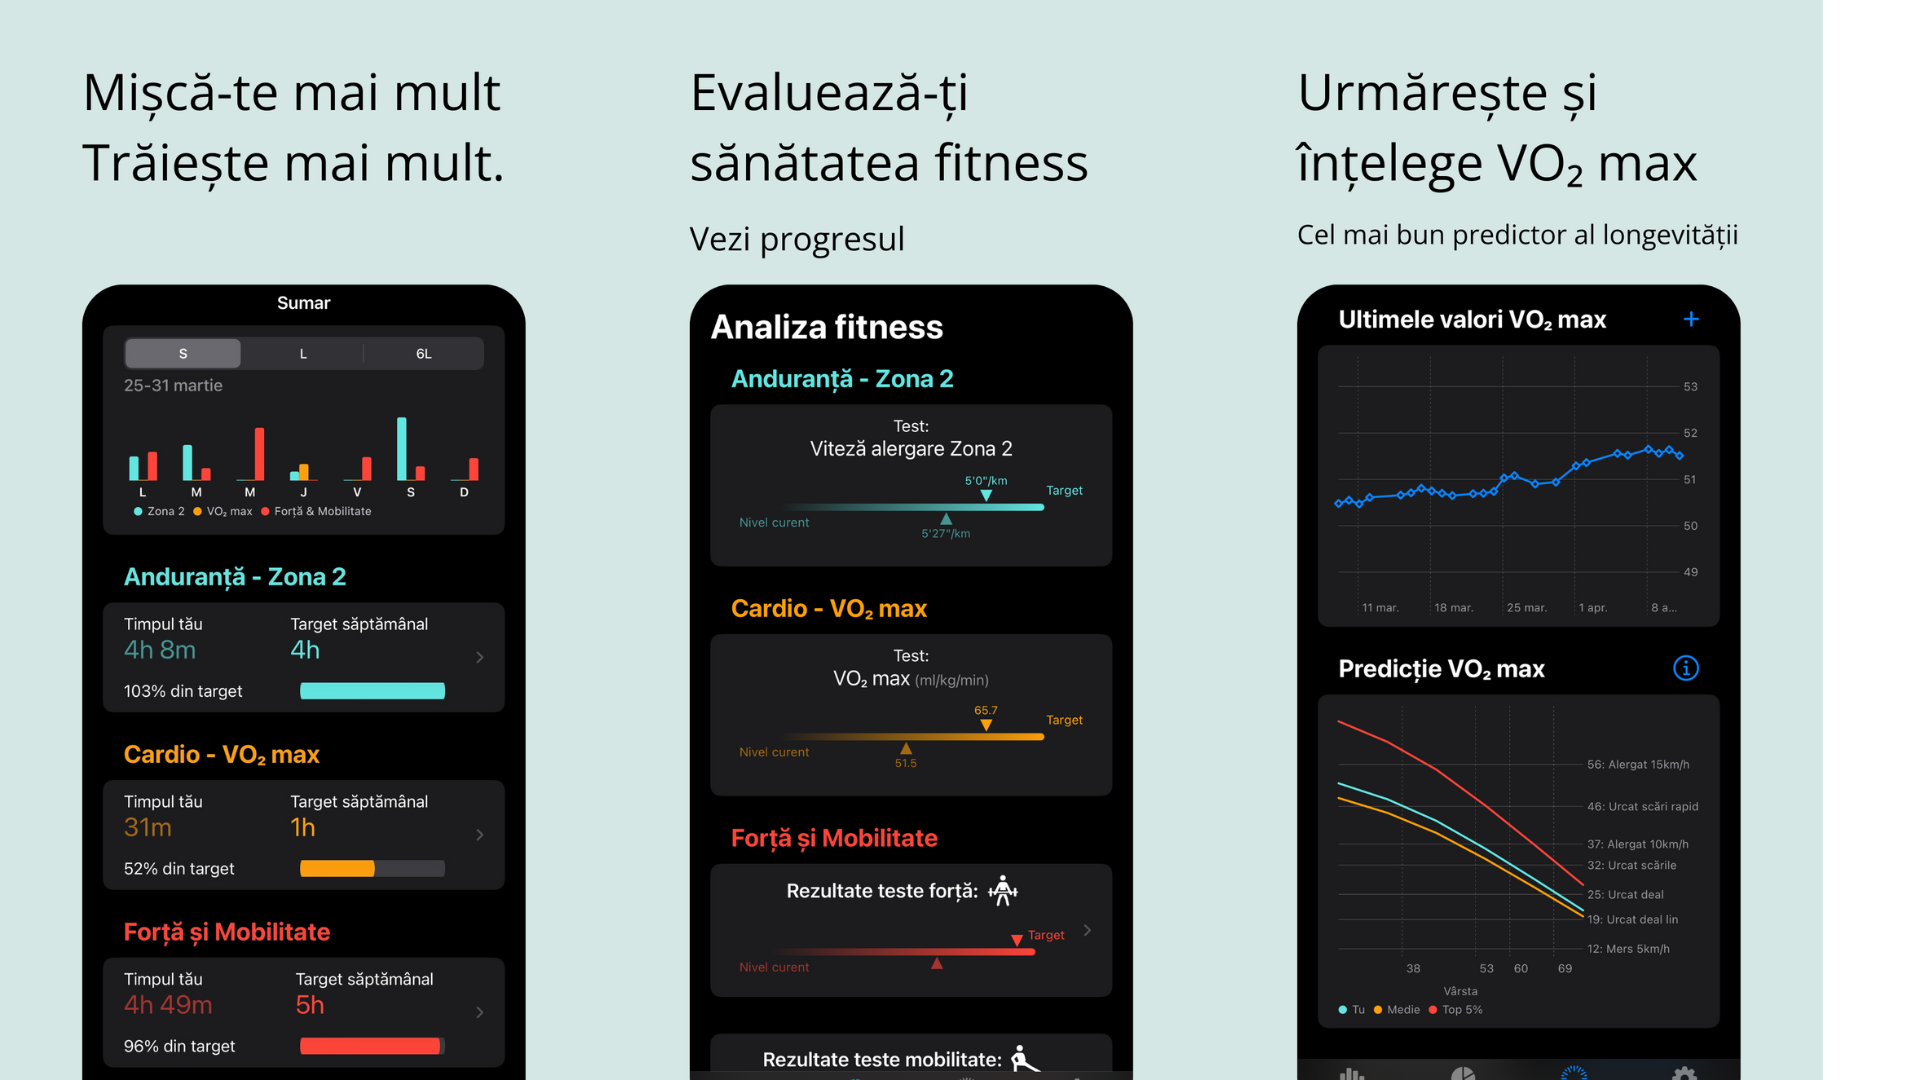
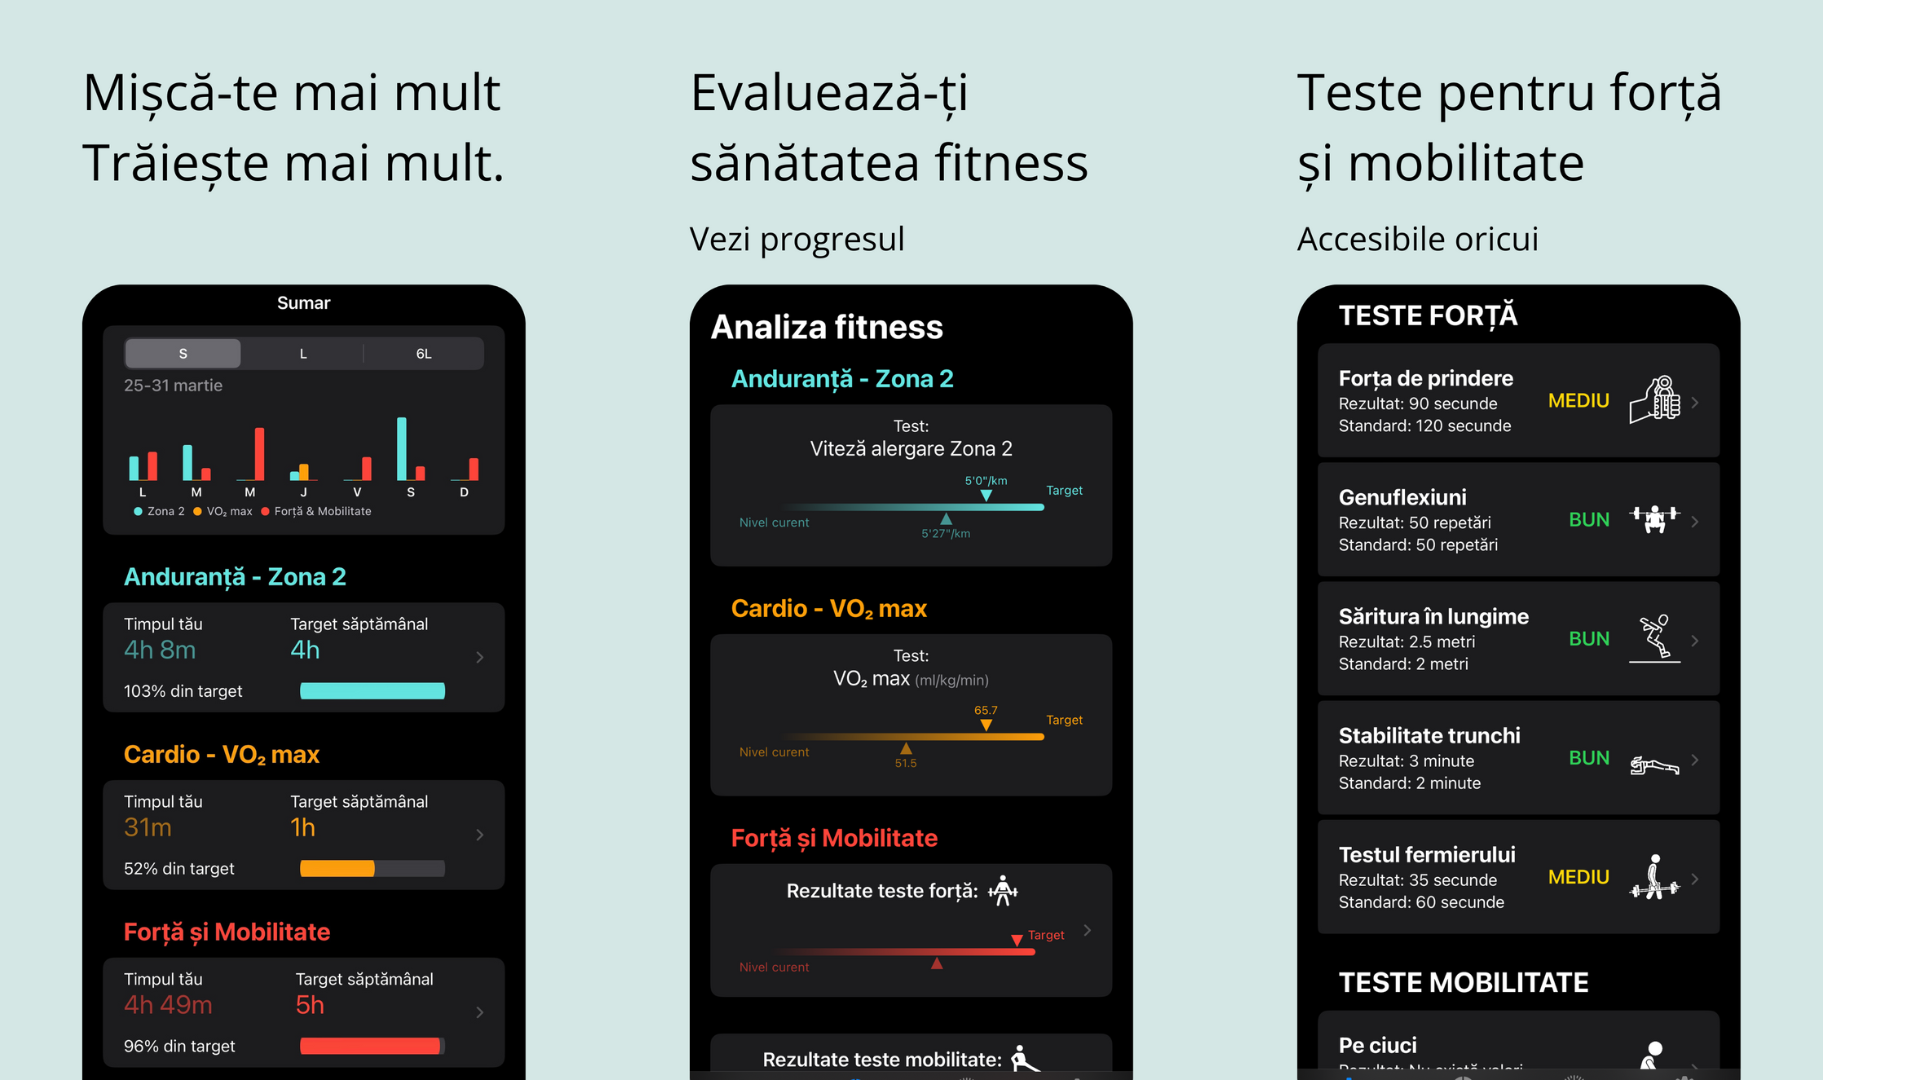
add appstore link

diff --git a/_posts/2010-01-01-movitalis-info.md b/_posts/2010-01-01-movitalis-info.md
@@ -26,36 +26,16 @@ Your browser does not support the video tag.
 
 Elimină puncte slabe. Movitalis îți analizează automat antrenamentele și le asociază o categorie de efort: Cardio, Anduranță sau Forță și Mobilitate. Devine ușor să identifici arii neglijate sau care îți ocupă prea mult timp.
 
-<img src="/assets/img/Forță_RO_1290x2796.png"  alt="drawing" height="500">
+În plus, vei beneficia de multe alte informații interesante, precum teste de forță și mobilitate, analiză a celor mai importanți parametrici fitness și predicții ale performanței tale.
 
-# În detaliu
+Ești gata să începi drumul către o viață mai sănătoasă? Descarcă acum de pe App Store!
 
-**Cardio** - Înțelege cum să dezvolți cel mai important predictor al longevității și bucură-te de monitorizare automată.
+<a href="https://apps.apple.com/ro/app/movitalis-fitness-tracking/id6470913447" target="_blank">
+    <img src="https://linkmaker.itunes.apple.com/assets/shared/badges/en-us/appstore-lrg.svg" alt="Download on the App Store">
+</a>
 
-**Forță și Mobilitate** - Vezi cât timp petreci antrenând mușchii și articulațiile tale și pune-le la probă cu teste funcționale.
-
-**Anduranță** - Învață cum să dezvolți anduranța cu antrenamente ușoare și descoperă legătura cu sănătatea metabolică. Bucură-te de monitorizare automată a antrenamentelor și a performanței.
-
-**Înțelege-ți parametrii** - Aplicația evidențiază cele mai importante măsurători ale sănătății tale fitness și te ajută să înțelegi căt de bine funcționează corpul tău.
-
-**Capătă structură** - Lasă în urmă zilele în care nu știi ce să faci mai întâi și bucură-te de o structură clară a antrenamentului ce ia în calcul atât Cardio cât și Forța, Mobilitatea și Anduranța
-
-**Categorizare automată** - aplicația îți identifică automat antrenamentele de Cardio, Anduranță și Forță/Mobilitate. Poți viziona toate antrenamentele din fiecare categorie.
-
-**Analiză esențială** - Fiecare antrenament e diferit. Înțelege performanța ta în ultimele antrenamente prin prisma scopului pe care îl atinge fiecare.
-
-**Simplitate** - Fitnessul nu trebuie să fie complicat. Aplicația se concentrează pe ce este important.
-
-**Context și predicție** - Înțelege cum te compari cu restul oamenilor din categoria ta de vârstă și vezi predicții pe zeci de ani ale abilităților tale fizice.
-
-**Testare funcțională** - Folosește testele de forță și mobilitate pentru a identifica puncte slabe, a decide cum să te antrenezi și a-ți evalua progresul.
-
-**Opțiune de logare manuală** - Dacă nu ai un dispozitiv fitness smart sau ai uitat să înregistrezi, poți loga manual antrenamente.
-
-**Integrare smart watch** - Folosește-ți dispozitivul la fel ca și până acum. Aplicația va citi automat antrenamentele din Apple Health. Nu necesită să înregistrezi cu aplicația, ci doar îți analizează datele deja existente.
-
-Deci descarcă acum Movitalis și bucură-te de structură, simplitate, energie și longevitate!
-
+<span style="font-size: 15px">
 Disclaimer:
 
 Nimic din aplicație nu constituie un sfat medical. Consultă-ți medicul înainte să faci orice decizii legate de sănătatea ta!
+</span>

diff --git a/_posts/2010-01-01-movitalis-privacy-policy.md b/_posts/2010-01-01-movitalis-privacy-policy.md
@@ -3,7 +3,7 @@ layout: post
 title: "Politica de confidențialitate"
 author: "David Manda"
 categories: article
-tags: [movitalis]
+tags: [movitalis-privacy]
 image: politica-de-confidentialitate-1.webp
 duration: 3
 ---
